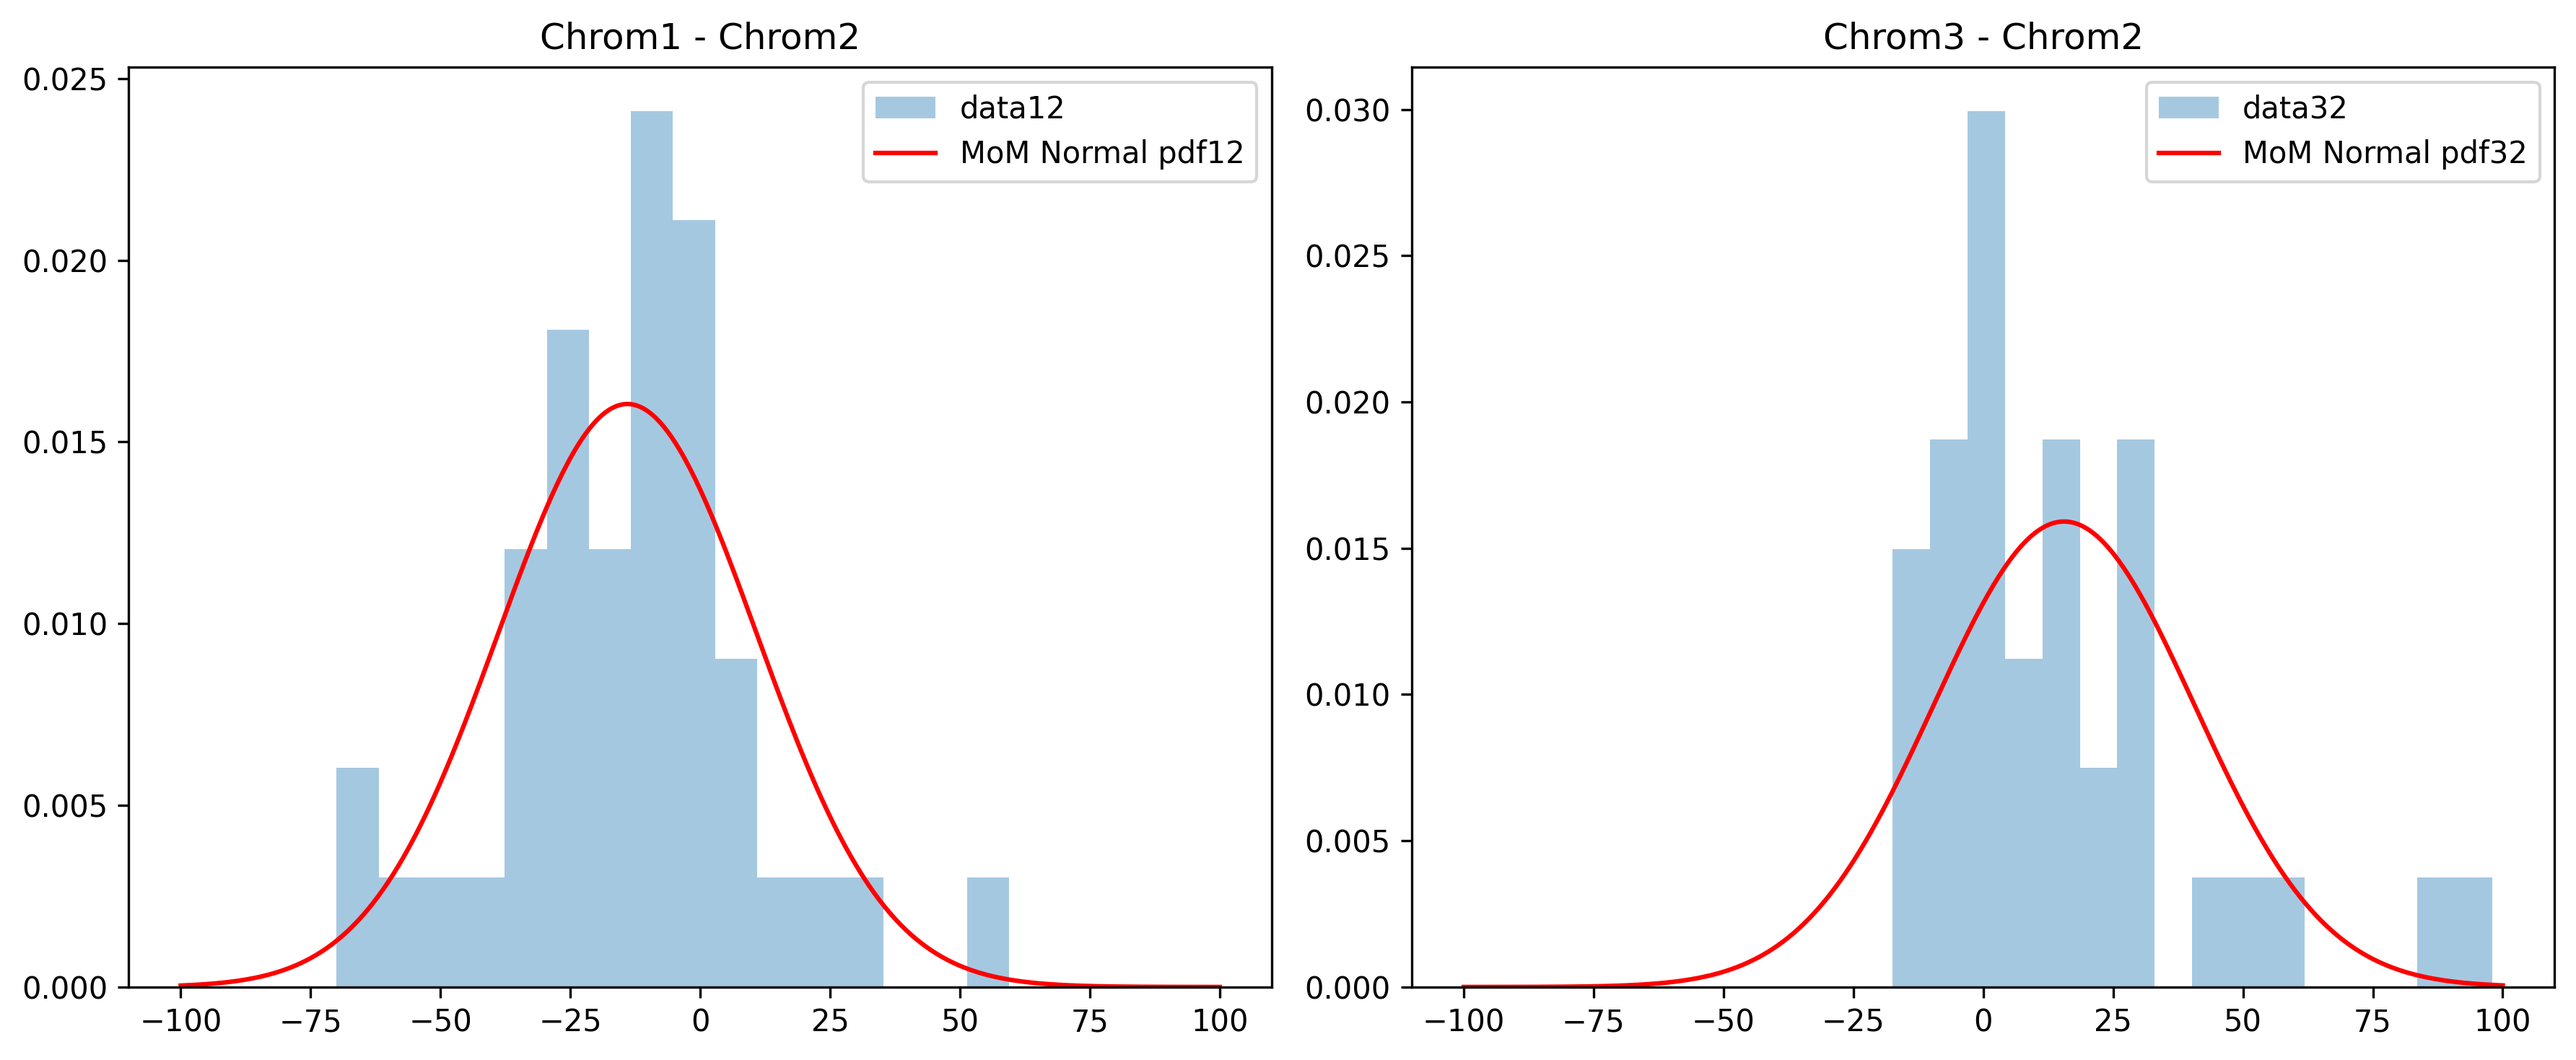
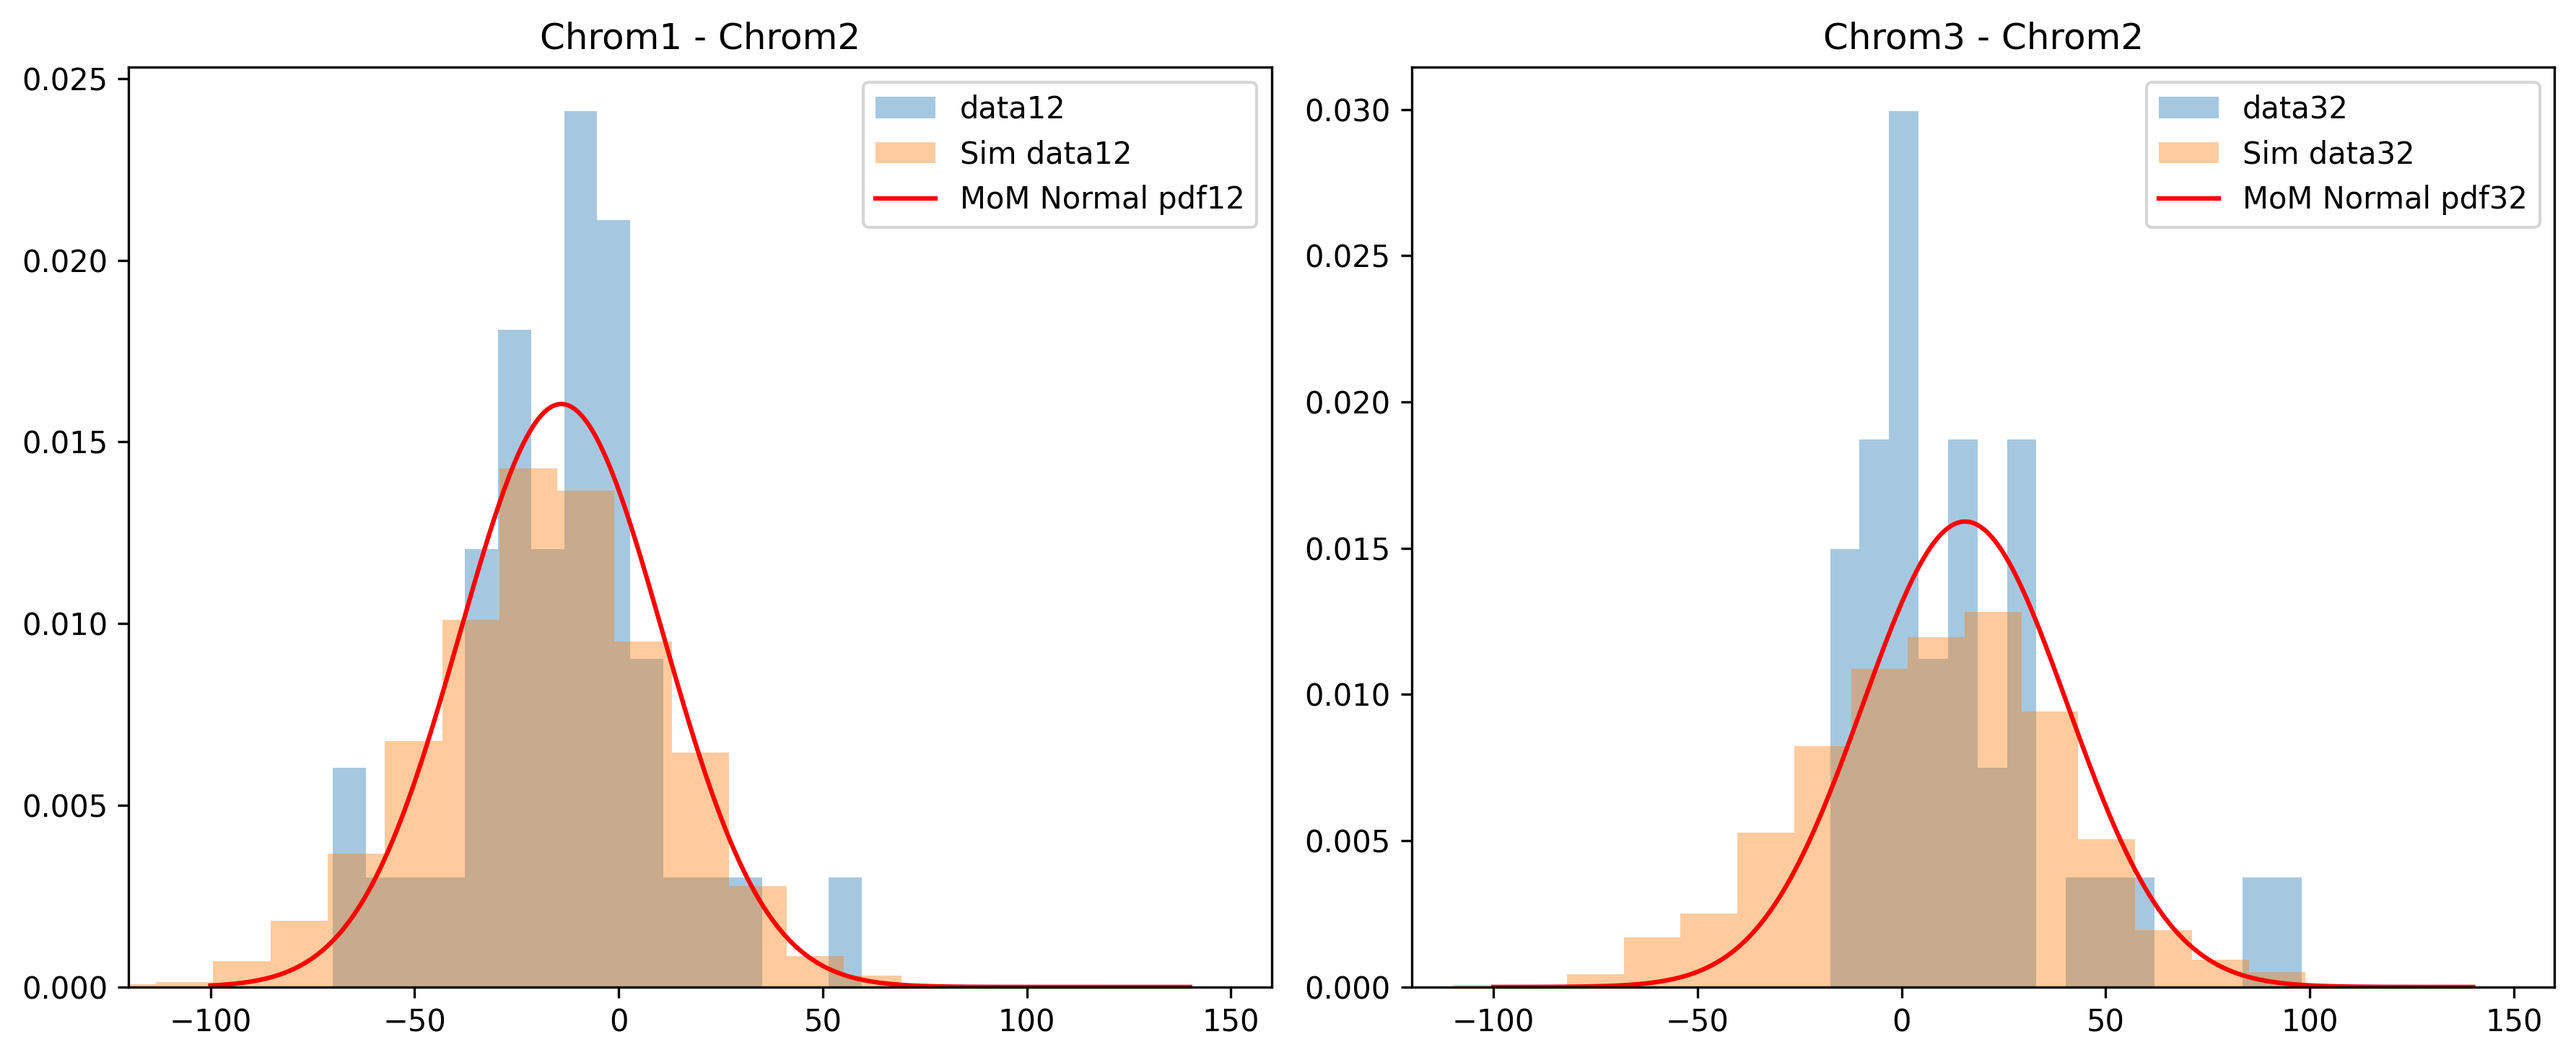
Adjust Excel file

diff --git a/TestDataPlot.py b/TestDataPlot.py
@@ -23,7 +23,7 @@ def compute_moments_mom(n1, N1, n2, N2, k):
 def run_stochastic_simulation_and_plot(k_opt, r21_opt, R21_opt, r23_opt, R23_opt,
                                        data12, data32,
                                        n2_opt, N2_opt,
-                                       max_time=150, num_sim=1000):
+                                       max_time=200, num_sim=2000):
     """
     Use the best-fit (k_opt, r21_opt, R21_opt, r23_opt, R23_opt) to run a Gillespie-like
     simulation. Then compare sim difference times to the experimental data hist.
@@ -55,40 +55,30 @@ def run_stochastic_simulation_and_plot(k_opt, r21_opt, R21_opt, r23_opt, R23_opt
     delta_t12 = [sep[0] - sep[1] for sep in separate_times]
     delta_t32 = [sep[2] - sep[1] for sep in separate_times]
 
-    # Plot sim vs data
-    fig, ax = plt.subplots(1, 2, figsize=(12, 5))
-
-    ax[0].hist(delta_t12, bins=14, density=True, alpha=0.4, label='Sim data12')
-    ax[0].hist(data12, bins=14, density=True, alpha=0.4, label='Exp data12')
-    ax[0].set_title("Stochastic Sim vs Exp (Chrom1–Chrom2)")
-    ax[0].legend()
-
-    ax[1].hist(delta_t32, bins=14, density=True, alpha=0.4, label='Sim data32')
-    ax[1].hist(data32, bins=14, density=True, alpha=0.4, label='Exp data32')
-    ax[1].set_title("Stochastic Sim vs Exp (Chrom3–Chrom2)")
-    ax[1].legend()
-
-    plt.tight_layout()
-    plt.show()
-    #fig.savefig('Results/simfit3.png', dpi=300, bbox_inches='tight')
+    return delta_t12, delta_t32
 
 if __name__ == "__main__":
     # Load data
     df = pd.read_excel("Data/Chromosome_diff.xlsx")
-    data12 = df['Wildtype12'].dropna().values
-    data32 = df['Wildtype32'].dropna().values
+    # data12 = df['Wildtype12'].dropna().values
+    # data32 = df['Wildtype32'].dropna().values
+    # data12 = df['DegRateMT12'].dropna().values
+    # data32 = df['DegRateMT32'].dropna().values
+    data12 = df['ThresholdMT12'].dropna().values
+    data32 = df['ThresholdMT32'].dropna().values
 
     # Define x_grid for plotting
-    x_grid = np.linspace(-100, 100, 401)
+    x_grid = np.linspace(-100, 140, 401)
 
     # Optimized parameters (replace with your actual optimized values)
-    n2_opt = 2.76
-    N2_opt = 398.40
-    k_opt = 0.0543
-    r21_opt = 0.54
-    R21_opt = 0.5
-    r23_opt = 2.2
-    R23_opt = 4.82
+    # Parameters: n2 = 5.39, N2 = 82.25, k = 0.0207, r21 = 1.75, r23 = 1.77, R21 = 1.29, R23 = 2.39
+    n2_opt = 5.39
+    N2_opt = 82.25
+    k_opt = 0.0207
+    r21_opt = 1.75
+    R21_opt = 1.29
+    r23_opt = 1.77
+    R23_opt = 2.39
 
     # Compute derived parameters
     n1_opt = r21_opt * n2_opt
@@ -104,30 +94,34 @@ if __name__ == "__main__":
     mean32, var32 = compute_moments_mom(n3_opt, N3_opt, n2_opt, N2_opt, k_opt)
     pdf32 = norm.pdf(x_grid, loc=mean32, scale=np.sqrt(var32))
 
-    # Plot experimental data vs MoM normal PDF
-    fig, ax = plt.subplots(1, 2, figsize=(12, 5))
-
-    ax[0].hist(data12, bins=16, density=True, alpha=0.4, label='data12')
-    ax[0].plot(x_grid, pdf12, 'r-', label='MoM Normal pdf12')
-    ax[0].set_title("Chrom1 - Chrom2")
-    ax[0].legend()
-
-    ax[1].hist(data32, bins=16, density=True, alpha=0.4, label='data32')
-    ax[1].plot(x_grid, pdf32, 'r-', label='MoM Normal pdf32')
-    ax[1].set_title("Chrom3 - Chrom2")
-    ax[1].legend()
-
-    plt.tight_layout()
-    plt.show()
-    #fig.savefig('Results/theoryfittest3.png', dpi=300, bbox_inches='tight')
-
     # Run stochastic simulation and plot
-    run_stochastic_simulation_and_plot(
+    delta_t12, delta_t32 = run_stochastic_simulation_and_plot(
         k_opt, r21_opt, R21_opt,
         r23_opt, R23_opt,
         data12, data32,
         n2_opt, N2_opt
     )
+
+    # Plot experimental data vs MoM normal PDF
+    fig, ax = plt.subplots(1, 2, figsize=(12, 5))
+
+    ax[0].hist(data12, bins=16, density=True, alpha=0.4, label='data12')
+    ax[0].hist(delta_t12, bins=16, density=True, alpha=0.4, label='Sim data12')
+    ax[0].plot(x_grid, pdf12, 'r-', label='MoM Normal pdf12')
+    ax[0].set_xlim(min(x_grid)-20, max(x_grid)+20)
+    ax[0].set_title("Chrom1 - Chrom2")
+    ax[0].legend()
+
+    ax[1].hist(data32, bins=16, density=True, alpha=0.4, label='data32')
+    ax[1].hist(delta_t32, bins=16, density=True, alpha=0.4, label='Sim data32')
+    ax[1].plot(x_grid, pdf32, 'r-', label='MoM Normal pdf32')
+    ax[1].set_xlim(min(x_grid)-20, max(x_grid)+20)
+    ax[1].set_title("Chrom3 - Chrom2")
+    ax[1].legend()
+
+    plt.tight_layout()
+    plt.show()
+    fig.savefig('Results/theoryfittest3.png', dpi=300, bbox_inches='tight')
 
 # Best negative log-likelihood: 1134.341497412577
 # Best parameters:

diff --git a/MoMOptimization.py b/MoMOptimization.py
@@ -3,8 +3,6 @@ import pandas as pd
 from scipy.optimize import minimize, differential_evolution
 from scipy.stats import norm
 
-# If your Chrom3–Chrom2 data is actually Chrom2–Chrom3, set True:
-FLIP_CHROM3_DATA = False
 
 ###############################################################################
 # 1) Compute MoM moments for f_X
@@ -63,13 +61,9 @@ def combined_objective(vars_, data12, data32):
 ###############################################################################
 def main():
     # a) Read data
-    df = pd.read_excel("Data/Chromosome_diff.xlsx")
-    data12 = df['Wildtype12'].dropna().values
-    data32 = df['Wildtype32'].dropna().values
-
-    # Flip sign for Chrom3–Chrom2 if needed
-    if FLIP_CHROM3_DATA:
-        data32 = -data32
+    df = pd.read_excel("Data/All_strains_SCStimes.xlsx")
+    data12 = df['wildtype12'].dropna().values
+    data32 = df['wildtype32'].dropna().values
 
     # b) Define parameter bounds for global optimization (loose constraints)
     param_bounds = [
